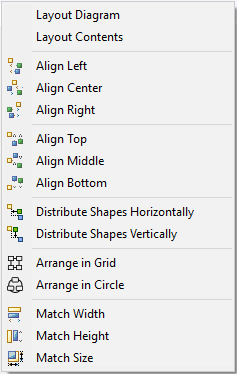
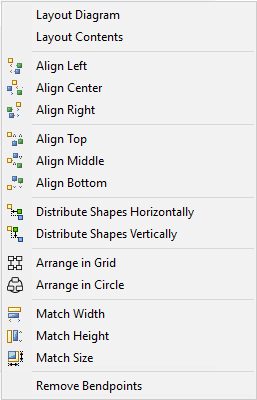
Add commands to make is easier to remove bendpoints from connections. (#1355)
* Added commands to make is easier to remove bendpoints from connections.

- Added a Select All Connections command.
- Added a Remove Bendpoints command
Closes #1210

Changed region(s): [[0.0, 0.0, 1.0, 1.0], [0.1181, 0.0, 0.5316, 0.1176]]

diff --git a/ge/org.osate.ge.doc/docs-gen/user_guide.html b/ge/org.osate.ge.doc/docs-gen/user_guide.html
@@ -62,6 +62,7 @@
 <li><a href="#creating-connections"><span class="toc-section-number">3.3.1</span> Creating Connections</a></li>
 <li><a href="#editing-connections"><span class="toc-section-number">3.3.2</span> Editing Connections</a></li>
 <li><a href="#connection_pattern-property-visualization"><span class="toc-section-number">3.3.3</span> Connection_Pattern Property Visualization</a></li>
+<li><a href="#selecting-all-connections"><span class="toc-section-number">3.3.4</span> Selecting All Connections</a></li>
 </ul></li>
 <li><a href="#classifiers"><span class="toc-section-number">3.4</span> Classifiers</a><ul>
 <li><a href="#creating"><span class="toc-section-number">3.4.1</span> Creating</a></li>
@@ -452,6 +453,10 @@
 <td><em>Match Size</em></td>
 <td>Adjusts the width and height of all selected elements to match that of the primary selection.</td>
 </tr>
+<tr class="even">
+<td><em>Remove Bendpoints</em></td>
+<td>Removes all bendpoints from the selected connections.</td>
+</tr>
 </tbody>
 </table>
 </div>
@@ -525,6 +530,8 @@
 <figure>
 <img src="../images/ConnectionPattern.png" />
 </figure>
+<h3 id="selecting-all-connections"><span class="header-section-number">3.3.4</span> Selecting All Connections</h3>
+<p>All connections can be selected by selecting <em>Edit-&gt;Select All Connections</em>.</p>
 <h2 id="classifiers"><span class="header-section-number">3.4</span> Classifiers</h2>
 <p>The graphical editor allows editing AADL classifiers such as component types, component implementations, and feature groups.</p>
 <h3 id="creating"><span class="header-section-number">3.4.1</span> Creating</h3>

diff --git a/ge/org.osate.ge/src/org/osate/ge/internal/ui/handlers/RemoveBendpointsHandler.java b/ge/org.osate.ge/src/org/osate/ge/internal/ui/handlers/RemoveBendpointsHandler.java
@@ -1,0 +1,51 @@
+package org.osate.ge.internal.ui.handlers;
+
+import java.util.Collections;
+import java.util.List;
+
+import org.eclipse.core.commands.AbstractHandler;
+import org.eclipse.core.commands.ExecutionEvent;
+import org.eclipse.core.commands.ExecutionException;
+import org.eclipse.ui.IWorkbenchWindow;
+import org.eclipse.ui.PlatformUI;
+import org.osate.ge.internal.diagram.runtime.AgeDiagram;
+import org.osate.ge.internal.diagram.runtime.DiagramElement;
+import org.osate.ge.internal.diagram.runtime.DiagramElementPredicates;
+import org.osate.ge.internal.ui.util.SelectionUtil;
+import org.osate.ge.internal.ui.util.UiUtil;
+
+public class RemoveBendpointsHandler extends AbstractHandler {
+	@Override
+	public Object execute(final ExecutionEvent event) throws ExecutionException {
+		final List<DiagramElement> selectedDiagramElements = AgeHandlerUtil.getSelectedDiagramElements();
+		final AgeDiagram diagram = UiUtil.getDiagram(selectedDiagramElements);
+		if (diagram == null) {
+			throw new RuntimeException("Unable to get diagram");
+		}
+
+		diagram.modify("Remove Bendpoints", m -> {
+			for (final DiagramElement de : selectedDiagramElements) {
+				if (DiagramElementPredicates.isConnection(de)) {
+					m.setBendpoints(de, Collections.emptyList());
+				}
+			}
+		});
+
+		return null;
+	}
+
+	@Override
+	public void setEnabled(final Object evaluationContext) {
+		final IWorkbenchWindow window = PlatformUI.getWorkbench().getActiveWorkbenchWindow();
+		final boolean enabled;
+		if (window == null) {
+			enabled = false;
+		} else {
+			enabled = SelectionUtil.getSelectedDiagramElements(window.getActivePage().getSelection()).stream()
+					.anyMatch(DiagramElementPredicates::isConnection);
+		}
+
+		setBaseEnabled(enabled);
+	}
+
+}

diff --git a/ge/org.osate.ge/src/org/osate/ge/internal/ui/handlers/SelectAllConnectionsHandler.java b/ge/org.osate.ge/src/org/osate/ge/internal/ui/handlers/SelectAllConnectionsHandler.java
@@ -1,0 +1,35 @@
+package org.osate.ge.internal.ui.handlers;
+
+import org.eclipse.core.commands.AbstractHandler;
+import org.eclipse.core.commands.ExecutionEvent;
+import org.eclipse.core.commands.ExecutionException;
+import org.eclipse.graphiti.mm.pictograms.PictogramElement;
+import org.eclipse.ui.IEditorPart;
+import org.eclipse.ui.handlers.HandlerUtil;
+import org.osate.ge.internal.diagram.runtime.DiagramElement;
+import org.osate.ge.internal.diagram.runtime.DiagramElementPredicates;
+import org.osate.ge.internal.graphiti.diagram.GraphitiAgeDiagram;
+import org.osate.ge.internal.ui.editor.AgeDiagramEditor;
+
+import com.google.common.base.Predicates;
+
+public class SelectAllConnectionsHandler extends AbstractHandler {
+	@Override
+	public Object execute(final ExecutionEvent event) throws ExecutionException {
+		final IEditorPart activeEditor = HandlerUtil.getActiveEditor(event);
+		if (!(activeEditor instanceof AgeDiagramEditor)) {
+			throw new RuntimeException("Unexpected editor: " + activeEditor);
+		}
+
+		final AgeDiagramEditor ageEditor = (AgeDiagramEditor) activeEditor;
+		final GraphitiAgeDiagram gad = ageEditor.getGraphitiAgeDiagram();
+
+		final PictogramElement[] connectionPictogramElements = ageEditor.getAgeDiagram().getAllDiagramNodes().filter(dn -> dn instanceof DiagramElement)
+				.map(DiagramElement.class::cast).filter(DiagramElementPredicates::isConnection)
+				.map(gad::getPictogramElement).filter(Predicates.notNull()).toArray(PictogramElement[]::new);
+
+		ageEditor.getDiagramBehavior().getDiagramContainer().selectPictogramElements(connectionPictogramElements);
+
+		return null;
+	}
+}

diff --git a/ge/org.osate.ge.doc/docs/user_guide.md b/ge/org.osate.ge.doc/docs/user_guide.md
@@ -261,7 +261,8 @@ Layout menu items are available from the *Edit->Layout* menu or by right clickin
 | *Arrange in Circle* | Arranges the selected elements into a circle. |
 | *Match Width* | Adjusts the width of all selected elements to match that of the primary selection. |
 | *Match Height* | Adjusts the height of all selected elements to match that of the primary selection. |
-| *Match Size* | Adjusts the width and height of all selected elements to match that of the primary selection. | 
+| *Match Size* | Adjusts the width and height of all selected elements to match that of the primary selection. |
+| *Remove Bendpoints* | Removes all bendpoints from the selected connections. | 
 
 Table: Layout Menu Items {#tbl:layout_menu_items}
 
@@ -319,6 +320,9 @@ Double-click on a connection and select the *AADL* tab from the *Properties* vie
 When working with arrays, the graphical editor supports visualization of the connection_pattern property. See @sec:arrays.
 
 ![](../images/ConnectionPattern.png)
+
+### Selecting All Connections
+All connections can be selected by selecting *Edit->Select All Connections*.
 
 ## Classifiers
 The graphical editor allows editing AADL classifiers such as component types, component implementations, and feature groups.
